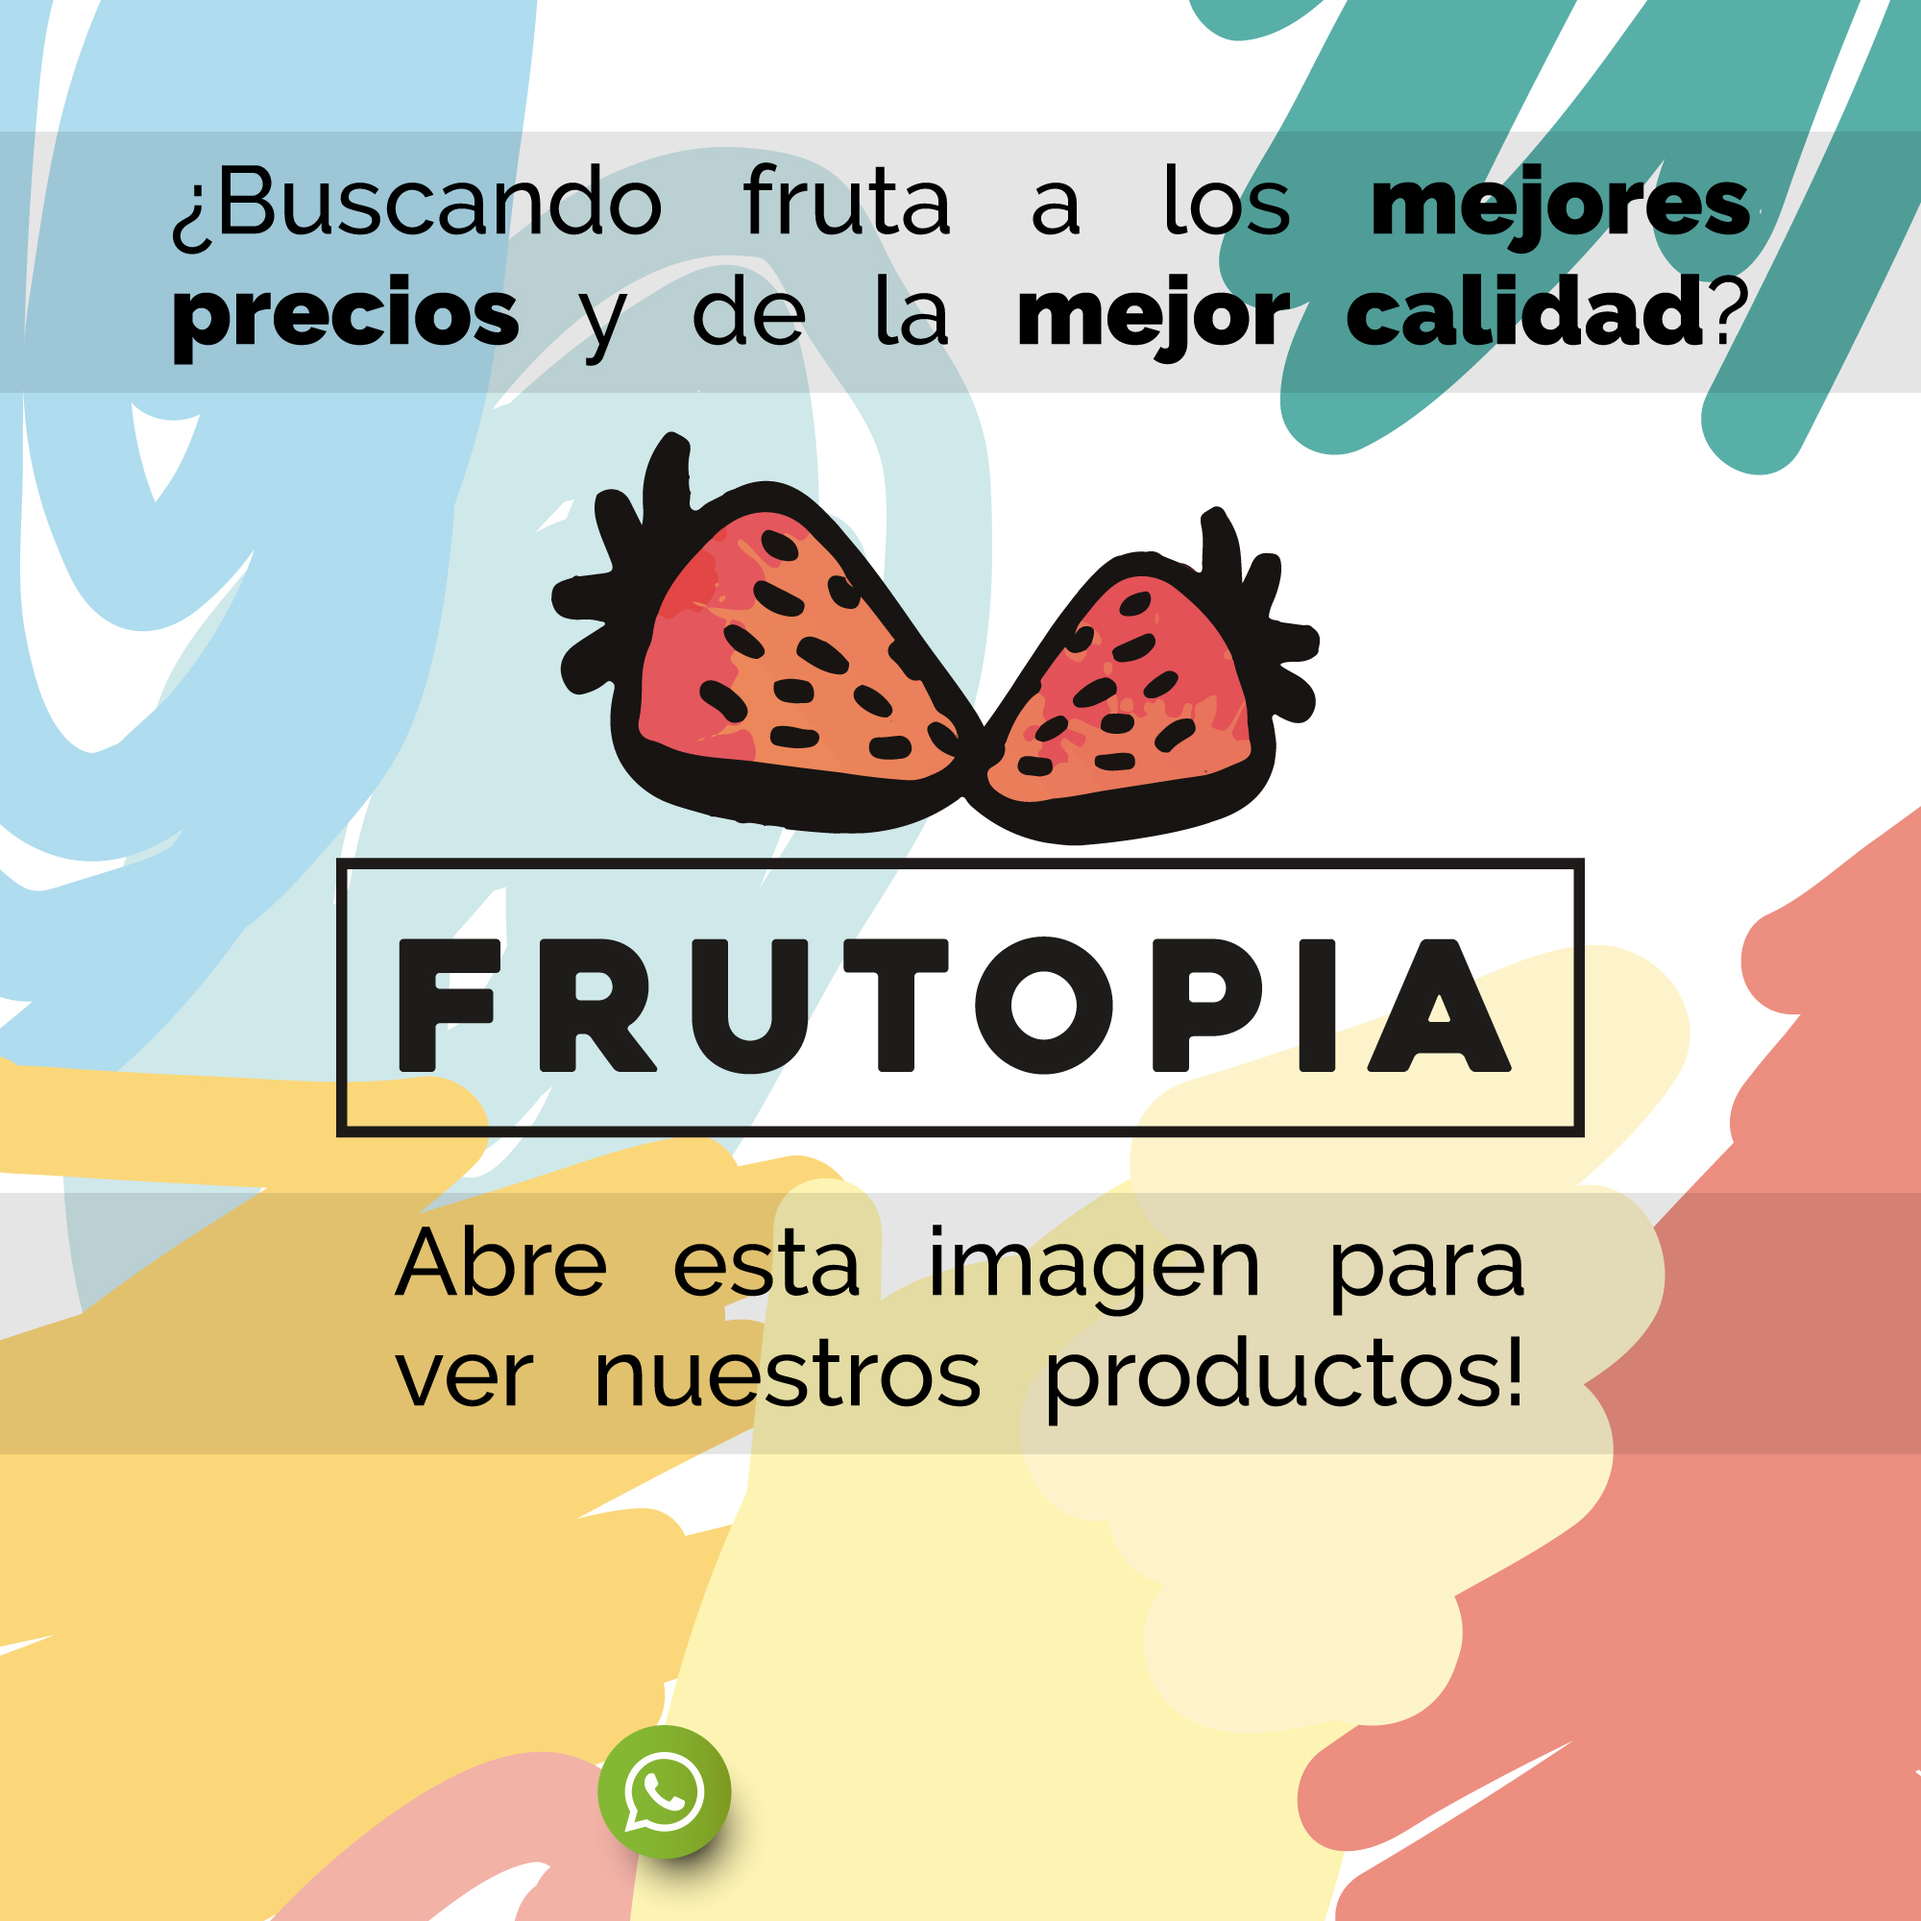
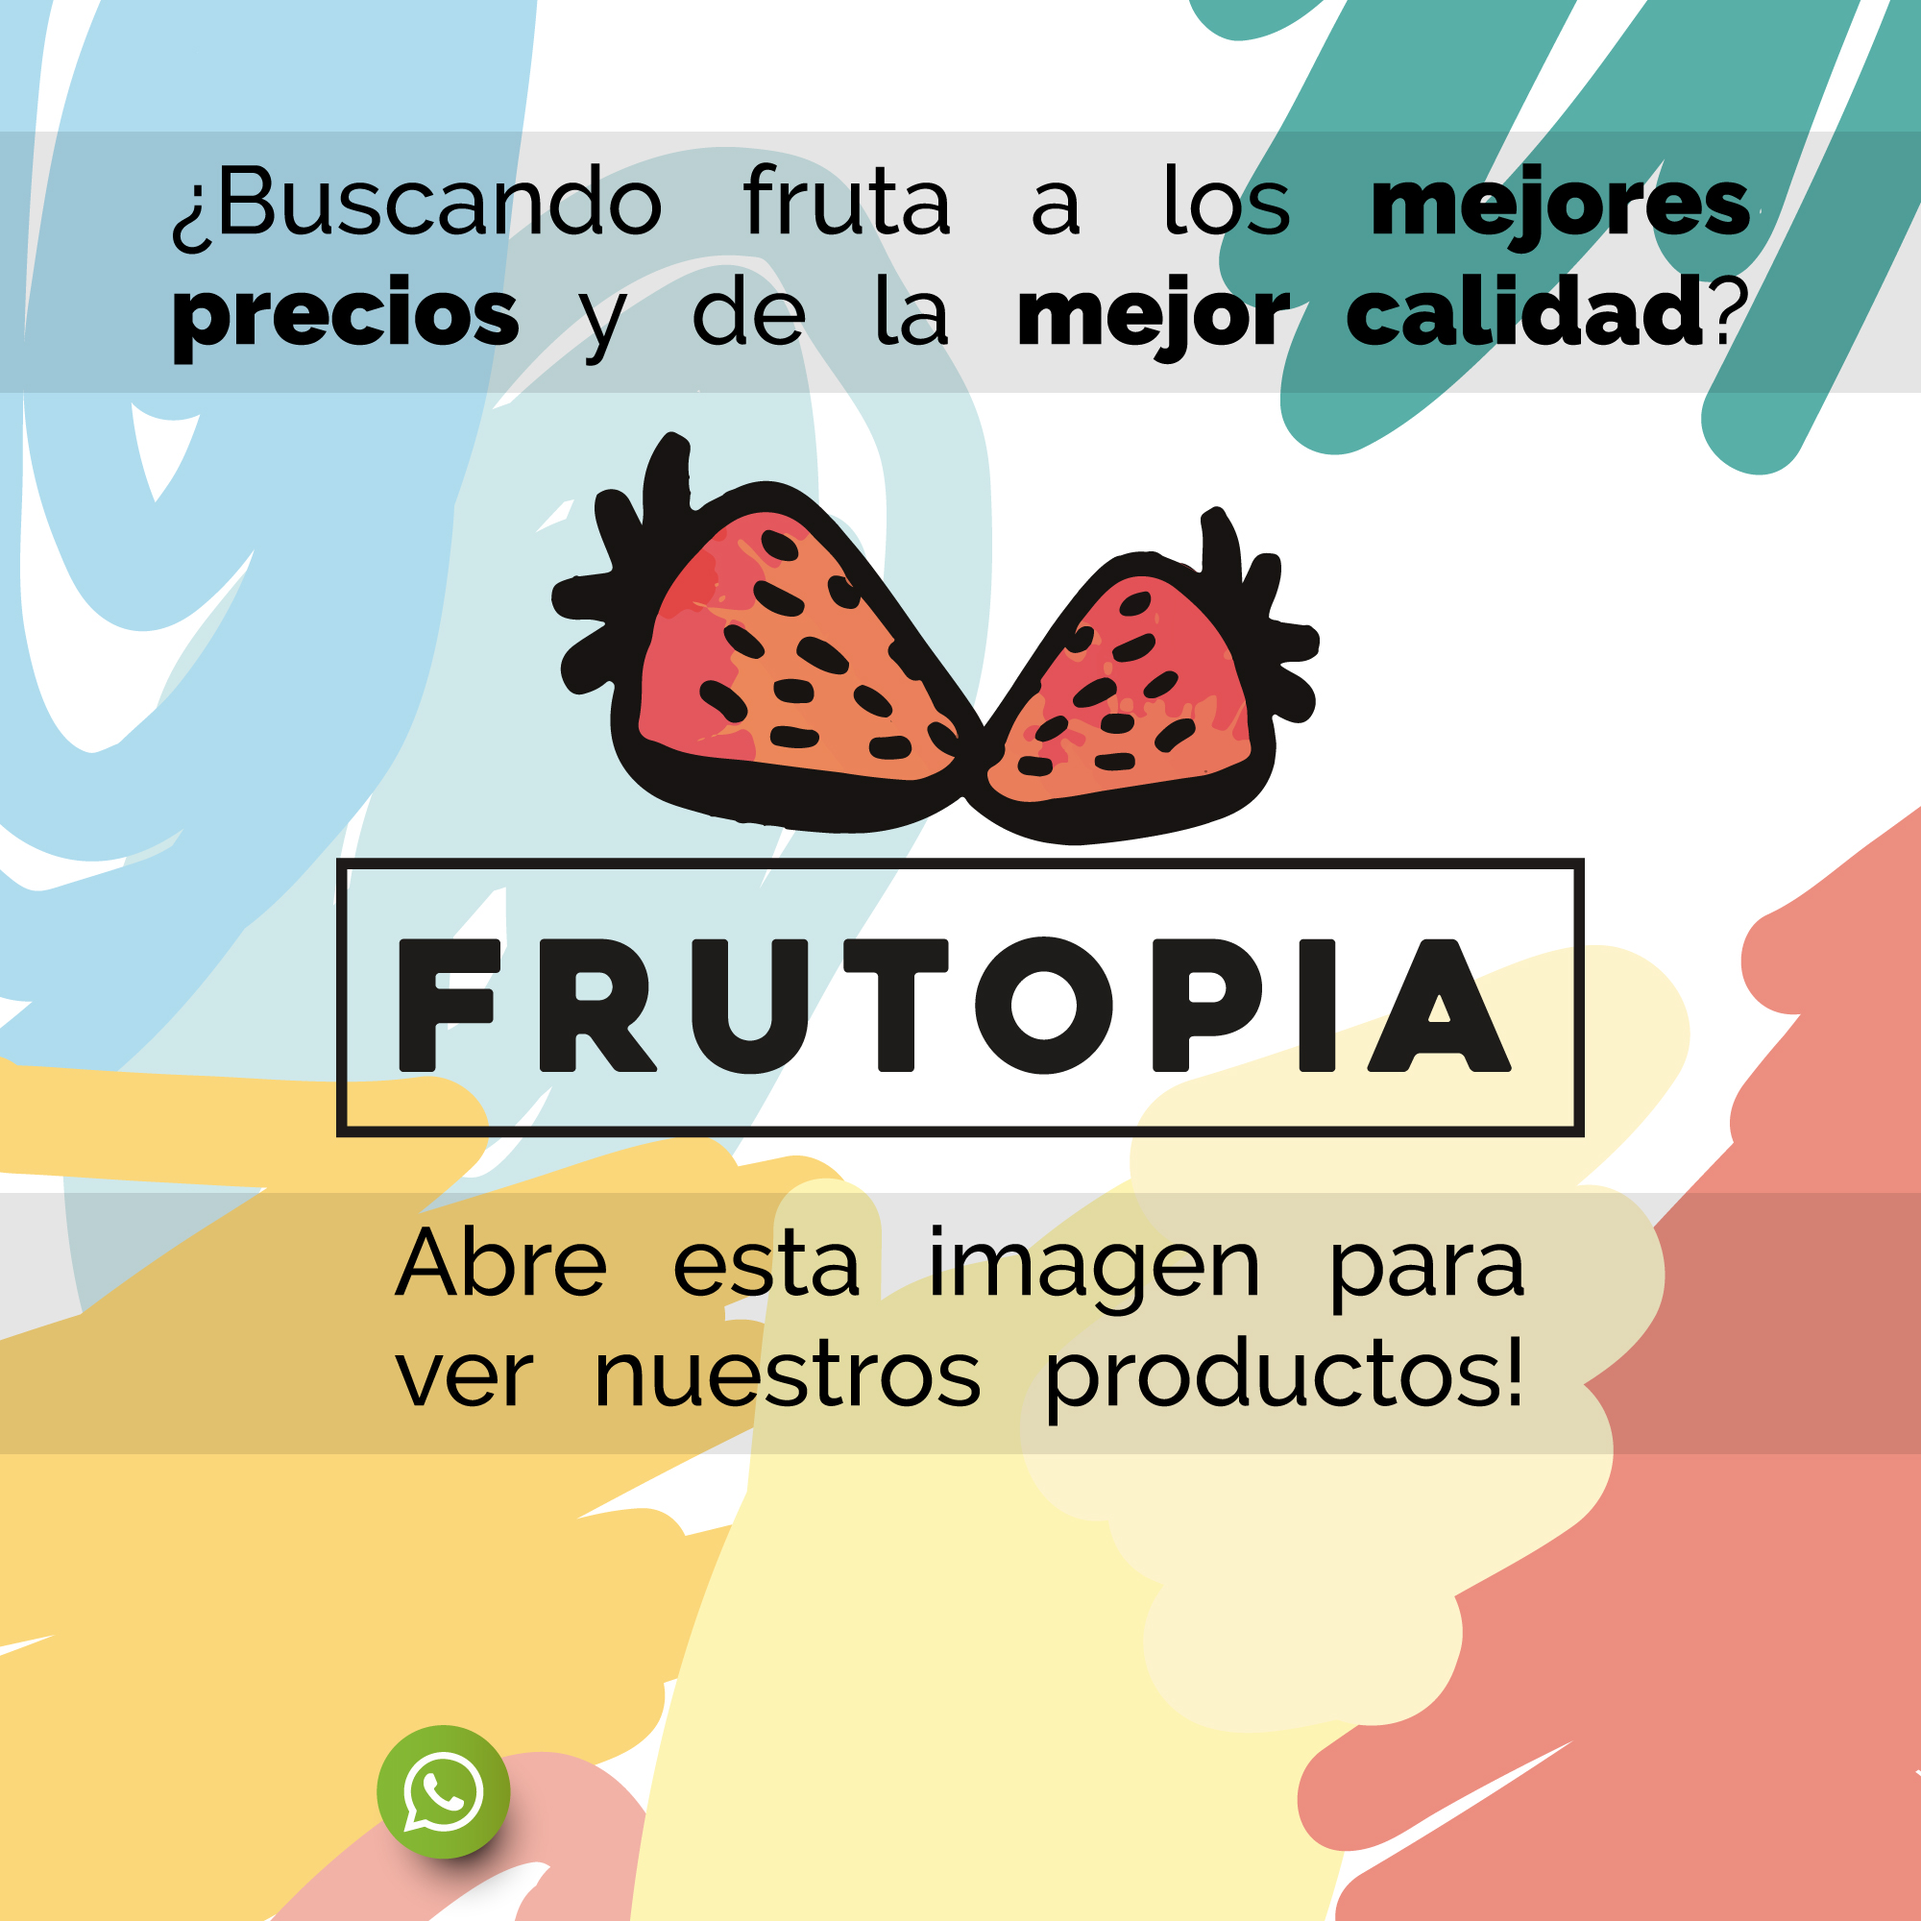
Multiples

Changed region(s): [[0.31, 0.899, 0.403, 0.992], [0.186, 0.899, 0.279, 0.992]]

diff --git a/grafica/difusion_multiple.py b/grafica/difusion_multiple.py
@@ -19,10 +19,10 @@ def crear_difusion_multiple(vendedor, productos):
     y_formato = 500
     y_precio = y_formato + 150
     y_nombre = 1630
-    y_telefono = y_nombre + 200
+    y_telefono = y_nombre + 155
     draw = ImageDraw.Draw(img)
     font_numeros = ImageFont.truetype("grafica/Fuentes/din_bold.ttf", 130)
-    font_telefono = ImageFont.truetype("grafica/Fuentes/din_bold.ttf", 60)
+    font_telefono = ImageFont.truetype("grafica/Fuentes/din_bold.ttf", 120)
     for producto in arriba:
         img.paste(Image.open("grafica/Fotos/"+producto["foto"]), (0, y_offset))
         formato = producto["masa"] + " " + producto["unidad"].upper()
